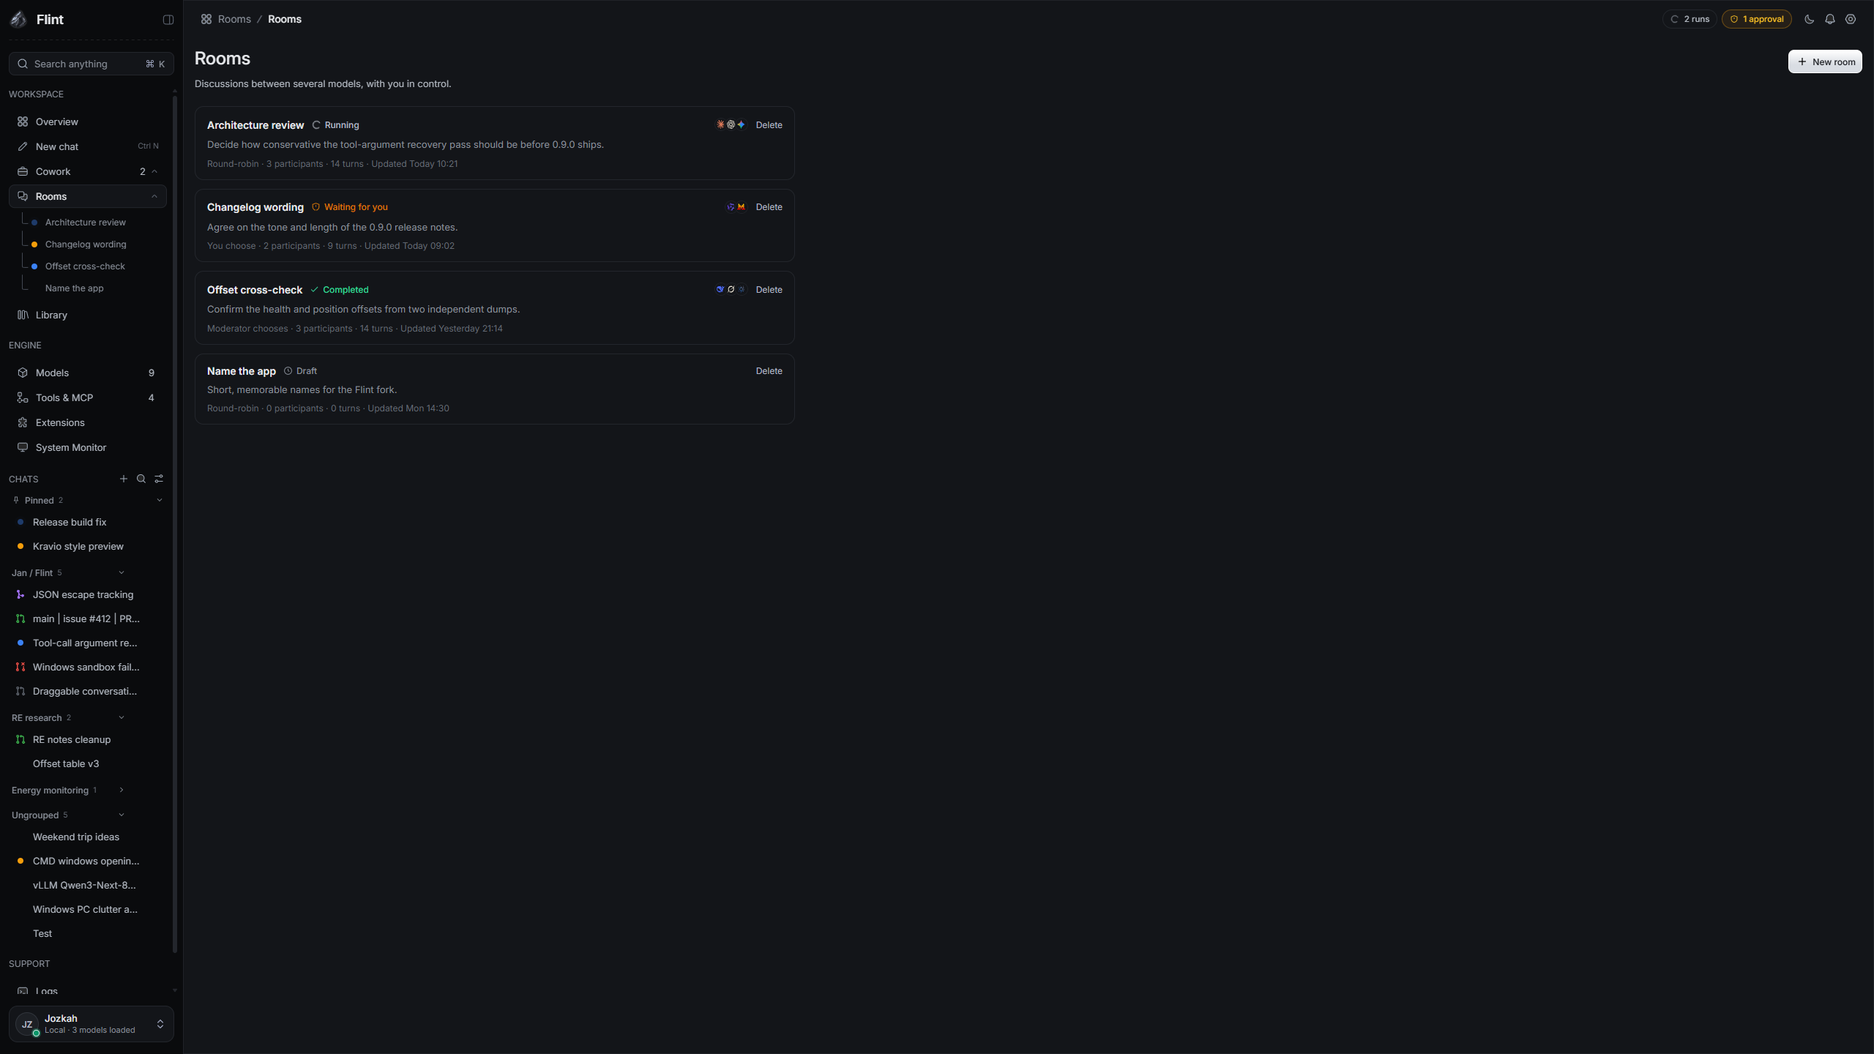
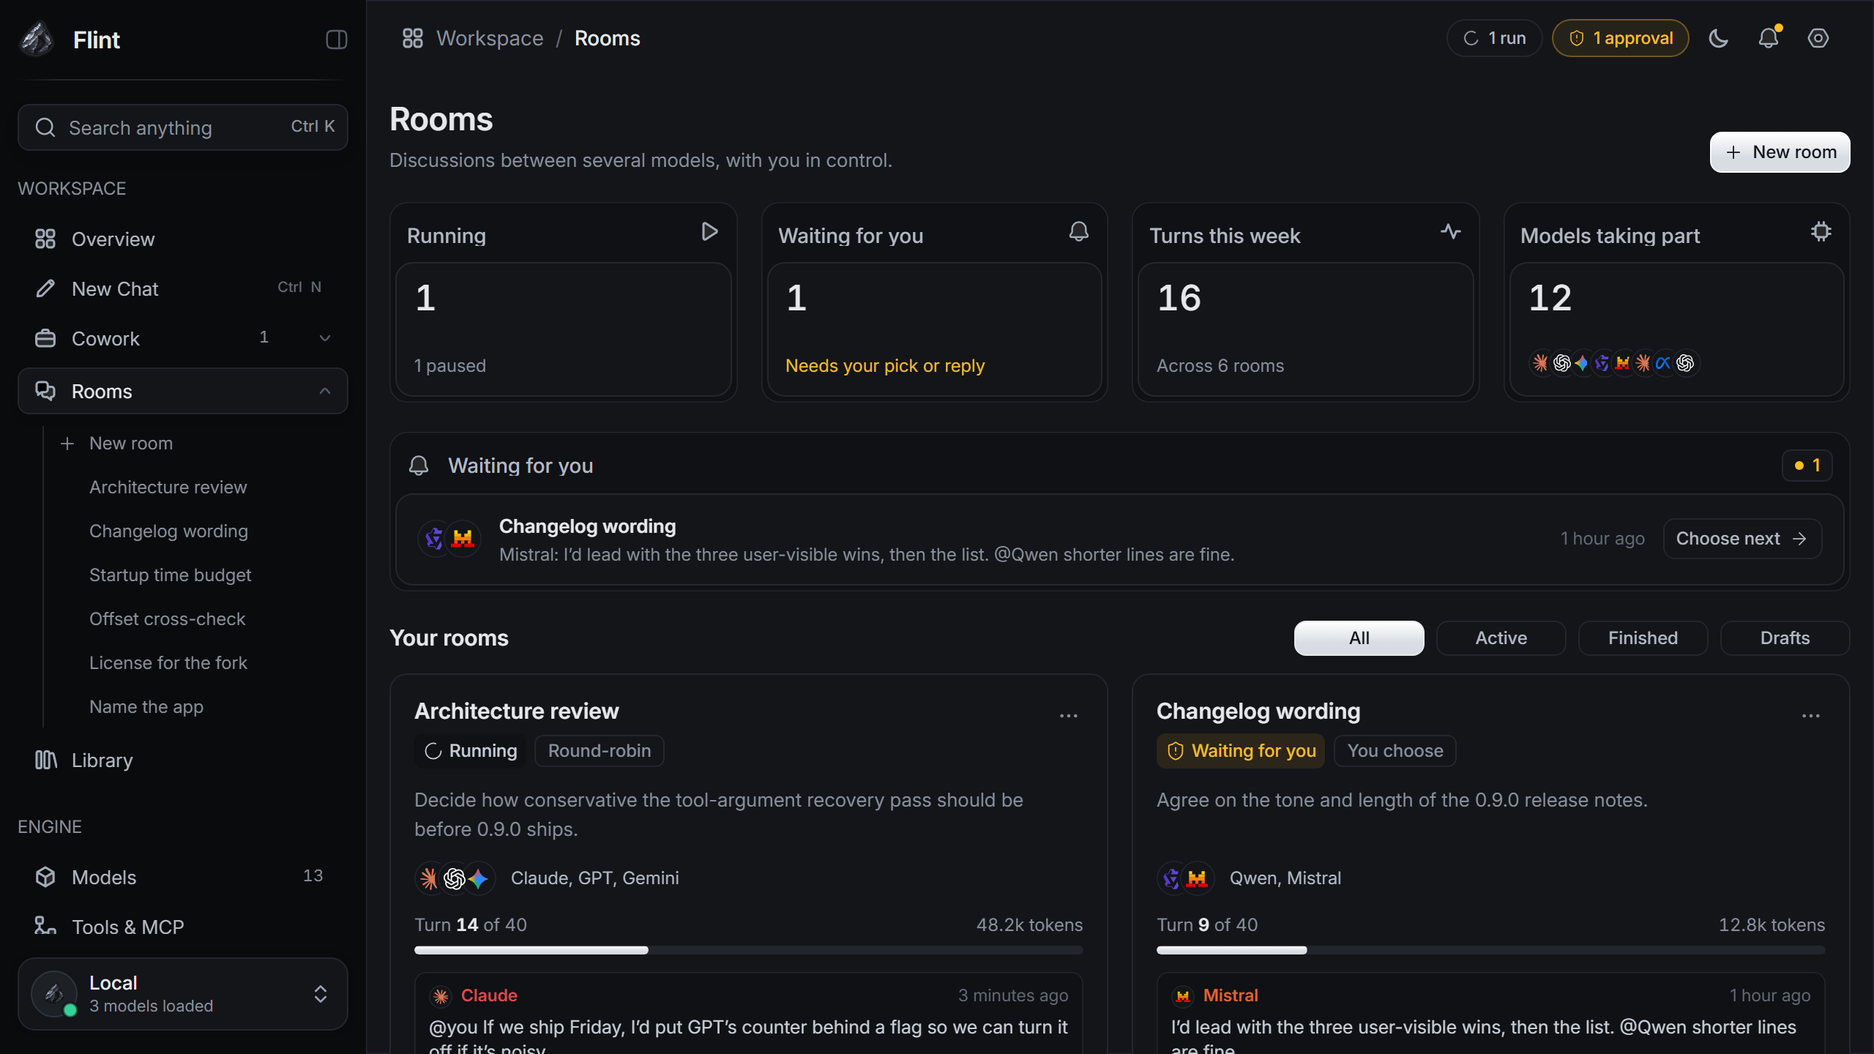
docs: final 0.9.0 changelog pass and fresh screenshots
Add the redesign, chat, Cowork, runtime, MCP, extensions and CLI changes
since v0.9.0 to the changelog, drop the superseded Graphite/Atelier
wording, fix mis-encoded dashes, and recapture the README screenshots
from the app.

diff --git a/CHANGELOG.md b/CHANGELOG.md
@@ -1,12 +1,12 @@
 # Flint 0.9.0
 
-Flint is a local-first fork of [Jan](https://github.com/janhq/jan), rebuilt into a full agentic workspace that runs against your own models and keeps your data on your machine. This first tagged release brings together everything Flint adds on top of Jan: a local-only build that never phones home, one-click migration from an existing Jan install, the **Cowork** agentic coding workspace, tool-using **Discussion Rooms**, an agent runtime you can reconstruct, cross-chat **Memory**, fingerprint-pinned **MCP**, native **Skills**, and the Graphite/Atelier redesign.
+Flint is a local-first fork of [Jan](https://github.com/janhq/jan), rebuilt into a full agentic workspace that runs against your own models and keeps your data on your machine. This first tagged release brings together everything Flint adds on top of Jan: a local-only build that never phones home, one-click migration from an existing Jan install, the **Cowork** agentic coding workspace, tool-using **Discussion Rooms**, an agent runtime you can reconstruct, cross-chat **Memory**, fingerprint-pinned **MCP**, native **Skills**, and a redesigned interface with an Overview dashboard.
 
 ## Highlights
 
 - **Local-first and private.** Telemetry, update checks, model discovery and catalogue fetches are removed and the whole repo is guarded against phoning home; web search no longer reports back what it returned. Flint runs against your own models and providers, and nothing leaves the machine unless you send it.
 - **Migrate from Jan in one launch.** Flint keeps Jan's identifier and data path, detects an existing Jan install on first run, and offers to Copy, Reuse, Move or Start fresh — per category, with conflict policies, a recoverable backup, rollback and idempotent resume.
-- **Cowork — an agentic coding workspace.** A right-rail workspace with a Code panel, a Changes (Git) rail with real diff gutters, an Activity rail, per-chat models and temporary chats. Cowork answers with a **reviewable proposal** you apply hunk-by-hunk, runs on a **managed worktree** with checkpoints and safety-point restores, can **dispatch a team** of coordinated subagents, and reports every change's true origin from recorded evidence.
+- **Cowork — an agentic coding workspace.** A workspace with an output rail with a Code panel, a Changes (Git) rail with real diff gutters, an Activity rail, per-chat models and temporary chats. Cowork answers with a **reviewable proposal** you apply hunk-by-hunk, runs on a **managed worktree** with checkpoints and safety-point restores, can **dispatch a team** of coordinated subagents, and reports every change's true origin from recorded evidence.
 - **Discussion Rooms that use tools.** Multi-model discussions, with you in control, that now do work rather than only talk. Attach a folder and give each participant **Read-only** or **Read & edit** file tools (`read`/`ls`/`find`/`grep`, and `write`/`edit` confined to that folder by a direct-edit grant), your trusted MCP servers (routed to the exact server, never offered when untrusted), and web research (`web_search`/`web_fetch`) — every call rendered as a colour-coded tool chip, matching the Cowork tab, that expands to its input and result. A participant can conclude early once the objective is met; a room stopped on a rounds/turns/tokens/time/cost limit continues for as many more rounds as you ask; a message to a paused, completed or stopped room resumes it; a discussion past the model's context window compacts automatically with a "Compacting…" note; and a room whose participants are all waiting on you hands back instead of spinning. Each participant has its own colour across `@mentions`, messages render Markdown, and new participants default to read-only tools when their model supports them.
 - **An agent runtime you can reconstruct.** Every run writes a versioned event log; a run interrupted mid-turn resumes carrying its unfinished work; token and dollar ceilings hold across runs; every tool call carries a deadline and a cancellation token; and a Timeline rail lets you step through a finished run and see what kind of failure occurred.
 - **Repository intelligence.** A stored repository index with caller/callee walking, semantic code search over a model you name, LSP-backed language servers, impact and test-coverage analysis following imports, project-tooling detection, and formatter discovery that runs on what the agent edits.
@@ -15,7 +15,7 @@ Flint is a local-first fork of [Jan](https://github.com/janhq/jan), rebuilt into
 - **MCP you can trust.** Servers are trusted by fingerprint, not the name they chose; OAuth tokens live in the secret store and refresh ahead of expiry with declared, enforced scopes; per-server liveness, logs and budgets; a server's documents and prompts; and imported servers launched confined or not at all.
 - **Native Skills and permissions.** User-level skills in the CLI and the agent loop that declare the tools they need and their version; a permission policy as a reviewed file a project cannot loosen; write authority issued as a grant over a root; and six versioned built-in roles enforced at the call site.
 - **A headless CLI.** A JSON-lines API that streams a run's canonical events with adjustable verbosity, a persistent local log and a local-only diagnostic bundle, and a harness benchmark against a fixed task set.
-- **The Graphite / Atelier redesign.** One Atelier shell — rail, contextual sidebar, context bar and status bar — with a neutral charcoal dark theme, bundled typefaces, a contrast-checked accent, an intention-led first run, global settings search, a command palette, and a system monitor with filterable logs.
+- **A redesigned interface.** A sidebar and top header in place of the rail and status bar, an Overview dashboard as the start page, a neutral Slate default accent, Inter, duotone icons, restrained motion, phone layouts, chat groups with drag and undo delete, and pull-request status in Cowork — keeping the intention-led first run, global settings search, command palette and system monitor with filterable logs.
 
 ## Migration
 
@@ -34,7 +34,7 @@ Your existing settings, credentials, providers, models, threads, projects, rooms
 ### Local-first and privacy
 - fix(tools): reject malformed MCP and RAG tool names before provider serialization, preventing "Expected 'function.name' to be a string" generation failures
 - perf(inference): keep GPU-capable Vulkan as the default engine build and document throughput tuning for Flash Attention, batching, offload, and parallel sequences
-- feat(app): local-only build â€” no telemetry, no catalog, no downloads (#10)
+- feat(app): local-only build — no telemetry, no catalog, no downloads (#10)
 - feat(local-only): finish removing telemetry, update checking and model discovery, and guard the whole repo
 - refactor(privacy): remove telemetry build vars, the analytics injection, the catalogue URLs and the update feed
 - refactor(core): remove the updater, the CLI's telemetry, and the mirror
@@ -42,18 +42,18 @@ Your existing settings, credentials, providers, models, threads, projects, rooms
 - fix(privacy): stop telling Google what the web search returned
 
 ### Flint identity and migration
-- rebrand(ui): present the product as Flint â€” app name, window title, rail wordmark, default assistant, and every locale
+- rebrand(ui): present the product as Flint — app name, window title, sidebar wordmark, default assistant, and every locale
 - rebrand(ui): Flint in the agent identity and the remaining visible strings
 - rebrand(agent): the default persona says Flint agent harness
 - rebrand(packaging): rename the desktop binary to Flint-Desktop and register the `flint://` deep link, keeping `jan://`
 - rebrand(docs): Flint navigation labels, keeping the research model names
 - docs(rebrand): add an original Flint logo and replace the Jan logo in the favicon, boot splash, window title, and in-app badges
-- docs(readme): rewrite the README as "Flint â€” a fork of Jan" with provenance, migration and feature sections (#12)
+- docs(readme): rewrite the README as "Flint — a fork of Jan" with provenance, migration and feature sections (#12)
 - docs(license): retain Apache-2.0, the upstream copyright, acknowledgements and upstream provenance
 - feat(migration): first-launch Jan to Flint data-migration core and the six Tauri commands
 - feat(migration): a guided first-launch migration assistant UI
 - feat(migration): Copy, Reuse, Move and Start-fresh modes, with per-category selection
-- feat(migration): conflict policies â€” keep the newer Flint item, use the Jan item, or keep both under a suffix
+- feat(migration): conflict policies — keep the newer Flint item, use the Jan item, or keep both under a suffix
 - feat(migration): a recoverable backup for Move, with rollback and retry on failure
 - feat(migration): idempotent resume of an interrupted migration, and quarantine of partial data
 - feat(migration): a migration manifest recording mode, categories, results and status
@@ -67,11 +67,11 @@ Your existing settings, credentials, providers, models, threads, projects, rooms
 - chore(compat): keep the `jan.ai.app` identifier, legacy data locations and persisted IDs so an existing Jan install upgrades in place
 
 ### Cowork workspace
-- feat(cowork): complete Cowork workspace â€” Code, Preview, Changes (Git), Activity, Settings search, per-chat models, temporary chats (#4)
+- feat(cowork): complete Cowork workspace — Code, Preview, Changes (Git), Activity, Settings search, per-chat models, temporary chats (#4)
 - feat(cowork): a read-only code workspace, an Activity rail, and global settings search (#1)
 - feat(cowork): make the declared coding-harness modes real (#6)
-- feat(cowork): report the real context â€” a repository map and the payload actually sent â€” with a harness feature registry (#7)
-- feat(cowork): the managed worktree â€” make it real, use the tree the run actually uses, and finish its lifecycle including recovery
+- feat(cowork): report the real context — a repository map and the payload actually sent — with a harness feature registry (#7)
+- feat(cowork): the managed worktree — make it real, use the tree the run actually uses, and finish its lifecycle including recovery
 - feat(cowork): checkpoints and two meanings of rewind, wired into Cowork with a safety point on restore
 - feat(cowork): answer an opening request with a proposal, not an edit; review it by hunk and apply only what was chosen
 - feat(cowork): export a managed worktree as a reviewable patch bundle, and import one back through proposal review
@@ -86,7 +86,7 @@ Your existing settings, credentials, providers, models, threads, projects, rooms
 - feat(changes): say which agent made every change, durably (AH-110)
 
 ### Agent runtime and harness
-- feat(agent): core execution â€” a run that can be reconstructed (#8)
+- feat(agent): core execution — a run that can be reconstructed (#8)
 - feat(harness): the feature registry and Phase 0 foundation, and one versioned event log per session exported through the UI
 - feat(agent): the Rust agent loop writes its calls and runs to the session's execution record (AH-004, AH-050)
 - feat(agent): a run interrupted mid-turn resumes with its turn, carrying its unfinished work (AH-026)
@@ -124,7 +124,11 @@ Your existing settings, credentials, providers, models, threads, projects, rooms
 - feat(review): work a review one comment at a time, and check that each is addressed (AH-164)
 - feat(tools): gate destructive git apart from safe git usage
 - feat(agent): check dependencies against the licences a project allows (AH-158)
-- feat(hooks): the project's own commands run around a tool call (AH-127/128/129)
+- feat(hooks): the project's own commands run around a tool call (AH-127/128/129), and command hooks on lifecycle events receive a redacted JSON payload
+- fix(agent): recover malformed tool-call arguments conservatively; MCP calls whose arguments cannot be recovered get an invalid-arguments error
+- fix(agent): on Windows, commands chained with `&&` or `||` run on a shell that can parse them
+- fix(agent-tools): raise sandbox limits to 65536 open files and 16 GiB file size
+- feat(agent-tools): tool descriptions say when to use each tool, and `edit` gains `replace_all`
 - feat(agent): named per-project profiles, chosen per run (AH-186)
 - feat(agent): rules about which model answers what (AH-194)
 - feat(agent): answer "what should I run now", and a one-shot check that a project is in working order (AH-072)
@@ -133,7 +137,7 @@ Your existing settings, credentials, providers, models, threads, projects, rooms
 
 ### Discussion Rooms
 - feat(rooms): the Discussion Room engine, store and controller
-- feat(rooms): the Discussion Rooms UI â€” list, room page, editor, transcript and controls
+- feat(rooms): the Discussion Rooms UI — list, room page, editor, transcript and controls
 - feat(rooms): persistence commands and a typed service
 - fix(rooms): frame transcript text, cap dissent, classify storage errors, and redact
 - fix(rooms): refuse ids Windows would alias (trailing dot, device names)
@@ -152,6 +156,11 @@ Your existing settings, credentials, providers, models, threads, projects, rooms
 - fix(cowork): a run belongs to the session that started it (#8905)
 - fix(cowork): Stop ends a run whatever it is waiting on (#8905)
 - fix(cowork): give every file an explicit origin, and stop project reads crossing projects
+- feat(cowork): Cowork in the new design, with an output rail and Activity, Preview, Code and session-details panels
+- feat(cowork): the run summary shows while the run is going
+- feat(cowork): pull-request state and checks for a Cowork folder, read through the GitHub CLI (`agent_pr_status`) with no token stored
+- fix(cowork): Stop all aborts the model stream, tool loop, subagents and pending asks
+- fix(windows): sandboxed shells, background jobs and git helpers no longer flash console windows
 
 ### MCP
 - feat(mcp): trust a server by fingerprint, not the name it chose, with a per-server auto-approve toggle
@@ -161,6 +170,7 @@ Your existing settings, credentials, providers, models, threads, projects, rooms
 - feat(mcp): per-server logs and budgets, and portable agent bundles (AH-140, AH-144, AH-145)
 - feat(mcp): launch an imported server confined, or not at all
 - feat(mcp): let filesystem and jailed MCP servers read a session's attached folders
+- fix(mcp): duplicate tool names from two servers are namespaced as `{server}_{tool}` (janhq/jan#8975), and inline attachments are no longer mutated
 
 ### Memory
 - feat(memory): one canonical record per scope, a precedence chain enforced and stated in every prompt (AH-081..085)
@@ -191,6 +201,7 @@ Your existing settings, credentials, providers, models, threads, projects, rooms
 - feat(skills): user-level native skills in the CLI and the agent loop, declaring the tools they need and their version (AH-040, AH-121, AH-123, AH-124)
 - feat(cowork): offer enabled plugin skills to Cowork's skill tools, and refresh on plugin changes
 - feat(agent): a plugin lifecycle with typed errors, local installs, and enable/disable
+- feat(extensions): scope plugins and skills to the workspace or make them global, with enable/disable
 - feat(permissions): describe tool requests and refusals in plain language, and offer only real scopes
 - feat(permissions): let a rule name the one subject it is about, without binding the others (AH-007)
 - feat(policy): a permission policy as a reviewed file a project cannot loosen (AH-052, AH-187)
@@ -211,6 +222,7 @@ Your existing settings, credentials, providers, models, threads, projects, rooms
 - feat(cli): benchmark the harness against a fixed task set (AH-196)
 - feat(sessions): hand a session to another computer and say what did not come along
 - feat(agent): search past runs and take a transcript out (AH-178)
+- feat(cli): `flint doctor` prints hardware info (`--json`), and `flint cli models list-local|info|delete` manage local models
 
 ### Models, providers and inference
 - feat(models): evidence-based model fit, a real compatibility test, and a preferred default
@@ -232,7 +244,7 @@ Your existing settings, credentials, providers, models, threads, projects, rooms
 ### Chat and composer
 - feat(chat): warn before sending images to a model without vision
 - feat(chat): per-chat model settings and a reasoning-effort bar (#2)
-- feat(chat): temporary chat lifecycle â€” keep, discard, and a leave guard (#3)
+- feat(chat): temporary chat lifecycle — keep, discard, and a leave guard (#3)
 - feat(chat): split a conversation into two independent panes, with a Details inspector
 - feat(chat): attach text and code without asking the model to see it
 - feat(composer): one @ menu for files, skills, agents and aliases, and name a selection as an alias
@@ -242,22 +254,35 @@ Your existing settings, credentials, providers, models, threads, projects, rooms
 - fix(chat): a tool call with unparseable arguments no longer breaks the rest of the conversation
 - fix(chat): a new chat starts from the last-used model, or the first local one
 - fix(messages): never persist or replay a tool call without arguments
+- feat(chat): sidebar chats grouped as Pinned, one collapsible group per project, then Ungrouped, with a filter and status marks (working, recent, waiting, pull request)
+- feat(chat): drag a chat onto a group, hover a row for a preview, and move between rows with the arrow keys
+- feat(chat): undo a chat delete from the toast
+- feat(chat): the window title leads with the number of approvals waiting
+- feat(chat): a new transcript and tool timeline, chat header, model picker, Details column and split pane
+- feat(composer): a new composer with an assistant menu and a tools drawer
+- fix(chat): the chat list shows each thread's real time and sorts correctly
 
 ### Design, onboarding and system
-- feat(design): the Graphite Studio redesign with a neutral charcoal dark theme (#15)
-- feat(design): the Jan Atelier redesign, integrated with the agent phases and beginner workflows (#11)
-- feat(design): one Atelier shell with a rail, contextual sidebar, context bar and status bar
-- feat(design): Atelier and Graphite components â€” buttons, dialogs, menus, sheets, switches, inputs, model dialogs and pickers
-- feat(design): bundled typefaces and a derived, contrast-checked accent
-- feat(design): rooms and agent messages in Graphite
+- feat(design): a new interface design, replacing the Graphite and Atelier redesigns (#15, #11): a 250px sidebar (Workspace, Engine, Chats, Support) beside a main panel with a 52px top header and breadcrumb, and a local-status card in the sidebar footer
+- feat(design): new colour tokens, a neutral Slate default accent, a Violet accent and Inter as the interface font, with a derived, contrast-checked accent; a saved Vermilion accent moves to Slate once
+- feat(design): theme, accent, font size and motion apply before first paint (no white flash in dark mode), and a new start-up loader follows the theme and Reduce motion
+- feat(design): a duotone icon set, brand logos for models and providers, and the flint rock as the favicon
+- feat(design): motion that follows Flint's own Reduce motion setting: the sidebar selection glides between rows, pages fade in, primary buttons ripple, the theme toggle reveals the new theme from the button, and figures count up
+- feat(design): redesigned components — buttons, dialogs, menus, sheets, switches, inputs, frames, segmented controls, chips and empty states — and redesigned Library, Models, provider, Tools & MCP, Extensions, Logs and System monitor pages
+- feat(overview): an Overview dashboard as the start page after setup — tokens generated, average speed and tool-call success with sparklines, tokens per day, latest activity and Cowork runs — from a local store that keeps 90 days, never leaves the machine and can be reset
+- feat(design): a notifications menu behind the header bell
+- feat(design): phone layouts for every page with every feature kept: a navigation sheet, a header overflow menu, stacked frames, and tabs or sheets for side panels
+- feat(ui): right-click context menus for plugins, skills, projects, messages, MCP servers and project files
+- feat(rooms): a Rooms landing page with running, waiting, turns and models figures, a "waiting for you" section, filters, room cards and templates; a room tree in the sidebar; and a new room page
 - feat(onboarding): an intention-led first run that resumes, skips and can be reopened
 - feat(settings): global settings search with focusable, structural targets grouped by section
-- feat(settings): a Permissions page to inspect and revoke grants, and a Memory page, in the Atelier language
-- feat(search): an Atelier search dialog and command palette, with rebindable shortcuts
+- feat(settings): a Permissions page to inspect and revoke grants, and a Memory page
+- feat(search): a redesigned search dialog and command palette, with rebindable shortcuts
 - feat(system): a system monitor and filterable log viewers
-- refactor(web-app): replace tabler icons with lucide-react in the Atelier UI
 - fix(ui): one header-row component so the two pages cannot drift, and a closed dialog stops swallowing clicks
 - fix(design): keep keyboard focus rings visible, and use the navigation sheet below 1024px
+- feat(settings): a new settings layout; Appearance gains a Reduce motion switch, an accent picker with a custom colour picker, and a font size that scales the whole interface
+- fix(ui): warnings use an amber that reads in both themes
 - fix(a11y): name the message edit and delete buttons
 
 ---

diff --git a/README.md b/README.md
@@ -329,7 +329,7 @@ Everything below is implemented in this fork, on top of upstream Jan. Open a sec
 
 ## Screenshots
 
-Flint's interface in dark and light themes, captured at 2560x1440. The conversations, runs and figures shown are example content.
+Flint's interface in dark and light themes, captured from the app at 2560x1440 with sample chats, runs and figures.
 
 | | |
 |---|---|
